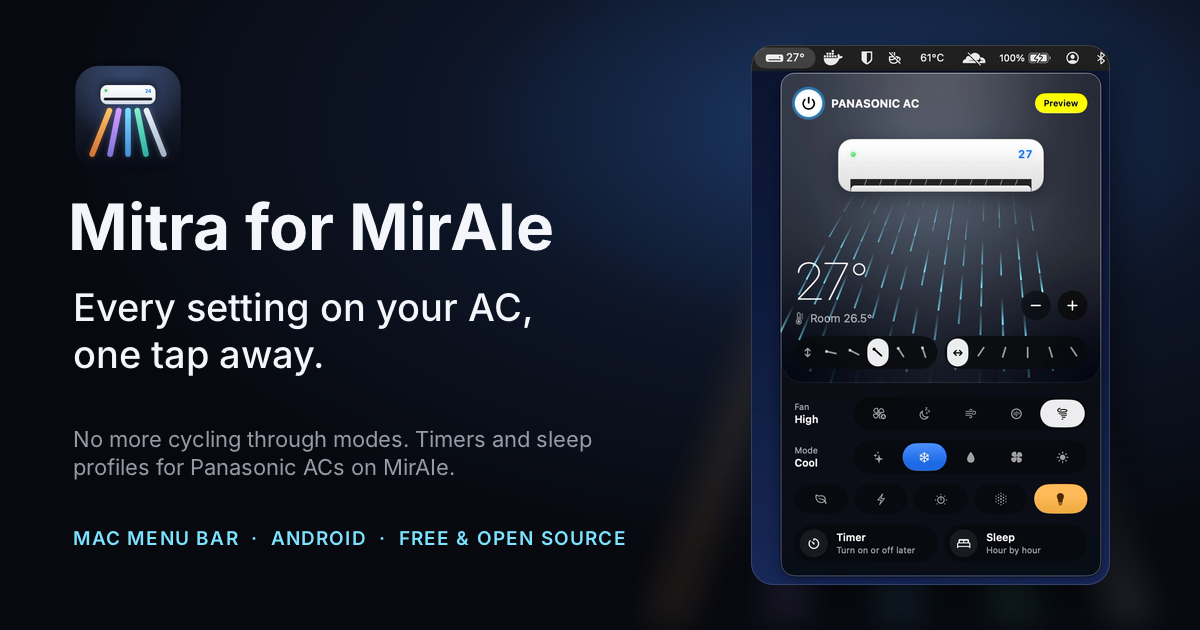
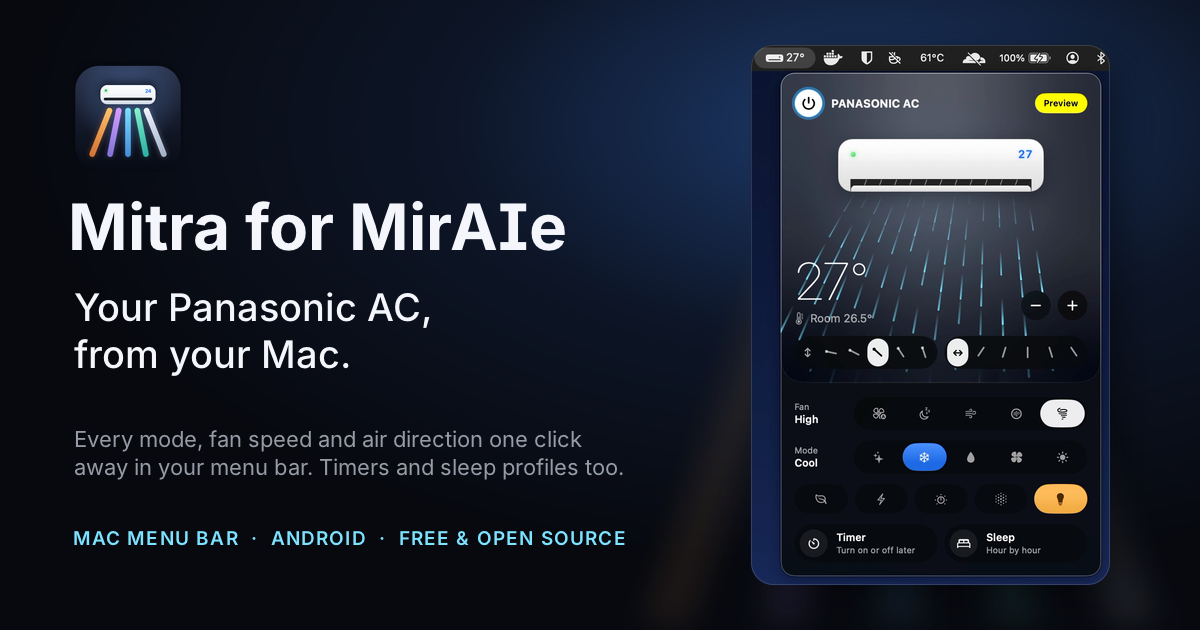
Lead with the Mac: control your Panasonic AC from your Mac
Mitra's biggest draw is that it brings a MirAIe AC to the Mac, so the
site now says so first, with one click per setting as the reason it's
better than the MirAIe app.

- Hero: "Your Panasonic AC, from your Mac.", with a menu bar eyebrow
  and a lede that names the MacBook. On desktop the opening lines start
  level with the AC, sized to keep the headline on two lines and the
  buttons clear of the panel.
- Page title, description, share image (now with the serifed I in
  MirAIe), the "MirAIe app for Mac" answer, llms.txt and the Markdown
  twin all lead with the Mac too.

diff --git a/src/lib/site.ts b/src/lib/site.ts
@@ -6,9 +6,9 @@ import { REPO } from './releases';
 export const SITE = {
   name: 'Mitra for MirAIe',
   url: 'https://mitra.midoreigh.com',
-  title: 'Mitra for MirAIe — every setting on your AC, one tap away',
+  title: 'Mitra for MirAIe — control your Panasonic AC from your Mac',
   description:
-    'A free, open-source alternative to the MirAIe app for Panasonic ACs, on Mac and Android. Every mode, fan speed and air direction one tap away, plus timers and sleep profiles.',
+    'Control your Panasonic MirAIe AC from your MacBook or any Mac: a free, open-source menu bar app with every mode, fan speed and air direction one click away, plus timers and sleep profiles. Also on Android.',
   author: { name: 'Mido Reigh', url: 'https://midoreigh.com' },
   blogPost: 'https://midoreigh.com/blog/mitra-for-miraie',
   repo: REPO,
@@ -34,7 +34,7 @@ export const FAQ: { q: string; a: string }[] = [
   },
   {
     q: 'Is there a MirAIe app for Mac?',
-    a: 'Mitra puts your MirAIe AC in your Mac’s menu bar, with the set temperature beside the icon, every control one click away, and Siri and Shortcuts. It runs on macOS 26 or later, on Apple silicon or Intel, and there’s an Android app too.',
+    a: 'Yes: Mitra. It puts your Panasonic MirAIe AC in the menu bar of your MacBook or any Mac, with the set temperature beside the icon, every control one click away, timers and sleep profiles, and Siri and Shortcuts. It runs on macOS 26 or later, on Apple silicon or Intel, and there’s an Android app too.',
   },
   {
     q: 'Why does my Mac ask before opening it?',

diff --git a/src/pages/llms.txt.ts b/src/pages/llms.txt.ts
@@ -9,7 +9,7 @@ export const GET: APIRoute = async () => {
 
 > ${SITE.description}
 
-Mitra is a free, open-source (MIT) alternative to the MirAIe app for Panasonic air conditioners, for the Mac menu bar (macOS 26+) and Android (8.0+). It signs in with your MirAIe account and controls the same ACs. Instead of cycling through modes, fan speeds and air directions one tap at a time as the MirAIe remote and app do, Mitra shows every option at once, so each is one click or tap away. It also adds timers and sleep profiles, which other apps for these ACs don't have. It also lets you control a MirAIe AC from a Mac. It's independent and unofficial, not affiliated with Panasonic.
+Mitra lets you control a Panasonic MirAIe air conditioner from your Mac: it lives in the menu bar of a MacBook or any Mac (macOS 26+), and there's an Android app (8.0+) too. It's a free, open-source (MIT) alternative to the MirAIe app that signs in with your MirAIe account and controls the same ACs. Instead of cycling through modes, fan speeds and air directions one tap at a time as the MirAIe remote and app do, Mitra shows every option at once, so each is one click or tap away. It also adds timers and sleep profiles, which other apps for these ACs don't have. It's independent and unofficial, not affiliated with Panasonic.
 
 ## Docs
 

diff --git a/src/lib/markdown.ts b/src/lib/markdown.ts
@@ -14,7 +14,7 @@ export async function siteMarkdown(): Promise<string> {
 
 Website: ${SITE.url} · Source: ${SITE.repo} · Made by [${SITE.author.name}](${SITE.author.url})
 
-Mitra for MirAIe is a free, open-source alternative to the MirAIe app for Panasonic air conditioners. You sign in with your MirAIe account and control the same ACs. It runs in the Mac menu bar and on Android phones, so it's also a way to control a MirAIe AC from a Mac. It's independent and unofficial, free and open source (MIT licence). Mitra means friend.
+Mitra for MirAIe lets you control a Panasonic MirAIe air conditioner from your Mac. It lives in the menu bar of your MacBook or any Mac, and there's an Android app too. It's a free, open-source alternative to the MirAIe app: you sign in with your MirAIe account and control the same ACs. It's independent and unofficial, free and open source (MIT licence). Mitra means friend.
 
 ## Why it exists: no more cycling
 

diff --git a/src/styles/home.css b/src/styles/home.css
@@ -100,7 +100,7 @@
   left: var(--gutter);
   top: var(--bar);
   bottom: 0;
-  width: min(38vw, 540px);
+  width: min(42vw, 600px);
   display: grid;
   align-items: center;
   pointer-events: none;
@@ -114,7 +114,11 @@
 }
 .step a, .step button { pointer-events: auto; }
 html.js .step:not(.is-active) { visibility: hidden; opacity: 0; }
-.step h1 { font-size: clamp(48px, 6vw, 92px); }
+.step h1 { font-size: clamp(42px, 4.2vw, 64px); }
+/* On desktop the opening lines start level with the AC, keeping the buttons clear of the panel. */
+@media (min-width: 960px) {
+  .step.hero { align-self: start; margin-top: 9svh; }
+}
 .step h2 { font-size: clamp(38px, 4.4vw, 66px); }
 .step p:not(.eyebrow) { font-size: 18px; color: var(--muted); max-width: 30em; }
 .step .lede { font-size: 19px; }
